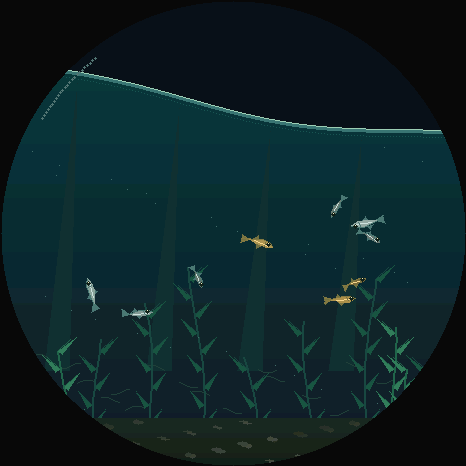
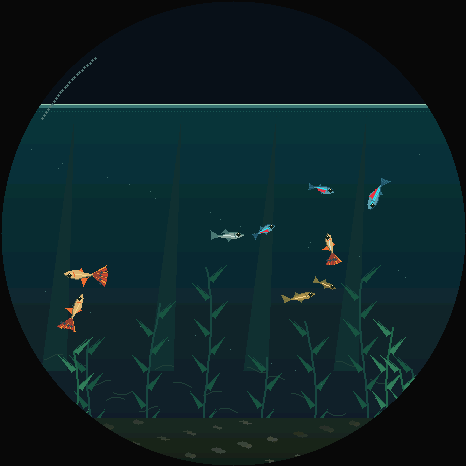
Add neon tetras and guppies with distinct looks and swimming

diff --git a/src/World.h b/src/World.h
@@ -6,7 +6,16 @@
 namespace aquarium {
 constexpr float kPi = 3.14159265359f;
 inline float clamp(float v, float lo, float hi) { return std::max(lo, std::min(v, hi)); }
-struct Fish { float x, y, vx, vy, heading, phase, depth, urge; float bite=0; };
+enum class Species : uint8_t { Medaka, NeonTetra, Guppy };
+struct SwimStyle { float cruise, turn, cadence, schooling, restDepth; };
+inline SwimStyle swimStyle(Species s) {
+  switch(s) {
+    case Species::NeonTetra: return {49,3.2f,1.25f,1.8f,245};
+    case Species::Guppy: return {34,1.9f,.72f,.65f,185};
+    default: return {42,2.5f,1,1,215};
+  }
+}
+struct Fish { float x, y, vx, vy, heading, phase, depth, urge; float bite=0; Species species=Species::Medaka; };
 struct Food { float x=0, y=0, life=0; bool wet=false; };
 class World {
 public:
@@ -18,6 +27,7 @@ public:
   Fish fish[COUNT];
   Food food[FOOD_MAX];
   unsigned eaten=0;
+  unsigned eatenBySpecies[3]{};
   float feedCooldown=0;
   int foodCount() const { int n=0; for(const auto &p:food) if(p.life>0) ++n; return n; }
   void feed(float x) {
@@ -32,7 +42,9 @@ public:
   uint32_t seed = 0x4d454441;
   float random() { seed ^= seed << 13; seed ^= seed >> 17; seed ^= seed << 5; return (seed & 0xffffff) / 16777216.f; }
   World() {
+    int index=0;
     for (auto &f : fish) {
+      f.species=static_cast<Species>(index++%3);
       f.x = 90 + random()*280; f.y = 155 + random()*210;
       f.heading = random()*2*kPi; f.vx = std::cos(f.heading)*20; f.vy = std::sin(f.heading)*8;
       f.phase = random()*2*kPi; f.depth = .6f + random()*.4f; f.urge = random();
@@ -102,13 +114,13 @@ public:
     }
     Fish old[COUNT]; std::copy(fish,fish+COUNT,old);
     for(int i=0;i<COUNT;++i) {
-      auto &f=fish[i]; float fx=0,fy=0, mx=0,my=0,avx=0,avy=0; int neighbors=0;
+      auto &f=fish[i]; const auto style=swimStyle(f.species); float fx=0,fy=0, mx=0,my=0,avx=0,avy=0; int neighbors=0;
       for(int j=0;j<COUNT;++j) if(i!=j) {
         float dx=old[j].x-f.x,dy=old[j].y-f.y,d2=dx*dx+dy*dy;
-        if(d2<150*150) { mx+=old[j].x; my+=old[j].y; avx+=old[j].vx; avy+=old[j].vy; ++neighbors; }
+        if(d2<150*150 && old[j].species==f.species) { mx+=old[j].x; my+=old[j].y; avx+=old[j].vx; avy+=old[j].vy; ++neighbors; }
         if(d2<42*42) { fx-=dx*150/(d2+16); fy-=dy*150/(d2+16); }
       }
-      if(neighbors) { fx+=(mx/neighbors-f.x)*.08f+(avx/neighbors-f.vx)*.16f; fy+=(my/neighbors-f.y)*.07f+(avy/neighbors-f.vy)*.12f; }
+      if(neighbors) { fx+=((mx/neighbors-f.x)*.08f+(avx/neighbors-f.vx)*.16f)*style.schooling; fy+=((my/neighbors-f.y)*.07f+(avy/neighbors-f.vy)*.12f)*style.schooling; }
       f.bite=std::max(0.f,f.bite-dt);
       int targetFood=-1; float nearest=1e9f;
       for(int j=0;j<FOOD_MAX;++j) if(food[j].life>0 && food[j].wet) {
@@ -118,34 +130,35 @@ public:
       bool feeding=targetFood>=0;
       if(feeding) {
         auto &p=food[targetFood]; float d=std::sqrt(nearest);
-        if(d<17 && f.bite<=0) { p.life=0; ++eaten; f.bite=.65f; }
+        if(d<17 && f.bite<=0) { p.life=0; ++eaten; ++eatenBySpecies[static_cast<int>(f.species)]; f.bite=.65f; }
         else {
           float desired=std::min(68.f,d*2.4f);
           fx+=((p.x-f.x)/std::max(1.f,d)*desired-f.vx)*2.8f;
           fy+=((p.y-f.y)/std::max(1.f,d)*desired-f.vy)*2.8f;
         }
       }
+      if(!feeding) fy+=(style.restDepth-f.y)*.035f;
       float radial=std::sqrt((f.x-233)*(f.x-233)+(f.y-233)*(f.y-233));
       if(radial>166) { fx-=(f.x-233)*(radial-166)*.025f; fy-=(f.y-233)*(radial-166)*.025f; }
       float top=surface(f.x)+(feeding?0:32);
       if(f.y<top+25) fy+=(top+25-f.y)*1.8f;
       if(f.y>382) fy-=(f.y-382)*1.8f;
       f.urge-=dt;
-      if(f.urge<0) f.urge=.7f+random()*1.9f;
+      if(f.urge<0) f.urge=(.7f+random()*1.9f)/style.cadence;
       float burst = f.urge<.27f ? 1.f : .12f;
-      fx+=std::cos(f.heading)*(12+alarm*60)*burst+std::sin(time*.63f+i*2)*8;
+      fx+=std::cos(f.heading)*(12*style.cadence+alarm*60)*burst+std::sin(time*.63f+i*2)*8;
       fy+=std::sin(time*.81f+i*3)*5+alarm*14;
       f.vx+=(fx-f.vx*.20f+current*.28f)*dt; f.vy+=(fy-f.vy*.38f)*dt;
-      float speed=std::sqrt(f.vx*f.vx+f.vy*f.vy), limit=(feeding?72:42)+alarm*65;
+      float speed=std::sqrt(f.vx*f.vx+f.vy*f.vy), limit=(feeding?72:style.cruise)+alarm*65;
       if(speed>limit) { f.vx*=limit/speed; f.vy*=limit/speed; }
-      if(speed>2) { float delta=std::atan2(f.vy,f.vx)-f.heading; delta=std::atan2(std::sin(delta),std::cos(delta)); f.heading+=clamp(delta,-dt*2.5f,dt*2.5f); }
+      if(speed>2) { float delta=std::atan2(f.vy,f.vx)-f.heading; delta=std::atan2(std::sin(delta),std::cos(delta)); f.heading+=clamp(delta,-dt*style.turn,dt*style.turn); }
       f.x+=f.vx*dt; f.y+=f.vy*dt;
       float dx=f.x-233,dy=f.y-233,d=std::sqrt(dx*dx+dy*dy);
       if(d>199) { f.x=233+dx*199/d; f.y=233+dy*199/d; }
       f.x=clamp(f.x,45,421);
       float edge=std::sqrt(199*199-(f.x-233)*(f.x-233));
       f.y=clamp(f.y,std::max(surface(f.x)+20,233-edge),std::min(413.f,233+edge));
-      f.phase+=dt*(6+speed*.18f+burst*5);
+      f.phase+=dt*(6+speed*.18f+burst*5)*style.cadence;
     }
   }
 };

diff --git a/src/Scene.h b/src/Scene.h
@@ -19,35 +19,57 @@ void plant(float root,int height,int index,bool front) {
 }
 
 void drawFish(const Fish &f,int index) {
-  float co=std::cos(f.heading),si=std::sin(f.heading),sc=f.depth;
+  bool neon=f.species==Species::NeonTetra, guppy=f.species==Species::Guppy;
+  float co=std::cos(f.heading),si=std::sin(f.heading),sc=f.depth*(guppy?1.1f:1.f);
   float tail=std::sin(f.phase)*3.7f, wag=std::sin(f.phase-.8f)*1.5f;
   auto point=[&](float x,float y) { return std::pair<int,int>(f.x+(x*co-y*si)*sc,f.y+(x*si+y*co)*sc); };
   auto tri=[&](float ax,float ay,float bx,float by,float cx,float cy,uint16_t c) {
     auto a=point(ax,ay),b=point(bx,by),d=point(cx,cy); frame.fillTriangle(a.first,a.second,b.first,b.second,d.first,d.second,c);
   };
-  bool gold=index%3==0;
+  bool gold=index%2==0;
   uint16_t fin=gold?color(119,115,66):color(72,119,117);
   uint16_t body=gold?color(206*sc,174*sc,94*sc):color(162*sc,192*sc,180*sc);
   uint16_t back=gold?color(130,120,64):color(76,121,119);
-  tri(-14,wag,-24,tail-5,-23,tail+5,fin);
-  for(int ray=-4;ray<=4;ray+=2) {
+  if(neon) { body=color(90,156,174); back=color(34,85,108); fin=color(54,113,130); }
+  if(guppy) { body=color(216,181,112); back=color(106,104,73); fin=color(233,110,54); }
+  if(guppy) {
+    // A broad, flexible fan tail with rays and spots distinguishes the guppy.
+    for(int ray=0;ray<8;++ray) {
+      float y=-11+ray*2.75f, ny=y+2.75f;
+      float tip=-29+std::sin(f.phase+ray*.5f)*1.6f;
+      tri(-13,wag,tip,tail+y,tip,tail+ny,ray%2?color(240,146,57):color(207,73,55));
+      auto a=point(-14,wag),b=point(tip,tail+y);
+      frame.drawLine(a.first,a.second,b.first,b.second,color(150,67,53));
+      if(ray%2==0) { auto spot=point(-24,tail+y*.7f); frame.fillCircle(spot.first,spot.second,1,color(51,75,81)); }
+    }
+  } else tri(-14,wag,-24,tail-5,-23,tail+5,fin);
+  for(int ray=-4;!guppy && ray<=4;ray+=2) {
     auto a=point(-14,wag),b=point(-23,tail+ray);
     frame.drawLine(a.first,a.second,b.first,b.second,back);
   }
-  tri(-3,-3,-7,-7,-11,-2,fin);
+  tri(-3,-3,-7,guppy?-12:-7,-11,-2,fin);
   tri(3,2,-3,7+std::sin(f.phase)*1.2f,-7,2,fin);
   const float xs[]={-15,-11,-6,0,6,10,14};
   const float widths[]={.4f,1.2f,2.6f,3.8f,3.5f,2.5f,.5f};
+  float bodyHeight=neon?1.45f:guppy?1.15f:1.f;
   for(int j=0;j<6;++j) {
     float x=xs[j],nx=xs[j+1];
     float bend=wag*std::max(0.f,-x)/15,nb=wag*std::max(0.f,-nx)/15;
-    tri(x,bend-widths[j],nx,nb-widths[j+1],nx,nb+widths[j+1],body);
-    tri(x,bend-widths[j],nx,nb+widths[j+1],x,bend+widths[j],body);
-    auto a=point(x,bend-widths[j]),b=point(nx,nb-widths[j+1]);
+    tri(x,bend-widths[j]*bodyHeight,nx,nb-widths[j+1]*bodyHeight,nx,nb+widths[j+1]*bodyHeight,body);
+    tri(x,bend-widths[j]*bodyHeight,nx,nb+widths[j+1]*bodyHeight,x,bend+widths[j]*bodyHeight,body);
+    auto a=point(x,bend-widths[j]*bodyHeight),b=point(nx,nb-widths[j+1]*bodyHeight);
     frame.drawLine(a.first,a.second,b.first,b.second,back);
   }
+  if(neon) {
+    tri(-11,1,2,1,1,5,color(235,49,67));
+    tri(-11,1,1,5,-9,3,color(235,49,67));
+    for(int line=-1;line<=0;++line) {
+      auto a=point(-11,line),b=point(10,line);
+      frame.drawLine(a.first,a.second,b.first,b.second,color(40,231,246));
+    }
+  }
   auto a=point(-9,0),b=point(9,1);
-  frame.drawLine(a.first,a.second,b.first,b.second,gold?color(244,213,140):color(206,227,216));
+  if(!neon) frame.drawLine(a.first,a.second,b.first,b.second,gold?color(244,213,140):color(206,227,216));
   auto eye=point(9,-1); frame.fillCircle(eye.first,eye.second,2,color(16,32,30));
   frame.drawPixel(eye.first,eye.second-1,color(242,240,195));
   auto gill=point(5,2),gill2=point(4,-2); frame.drawLine(gill.first,gill.second,gill2.first,gill2.second,fin);

diff --git a/test/physics.cpp b/test/physics.cpp
@@ -4,6 +4,8 @@
 using namespace aquarium;
 int main() {
   World w;
+  int population[3]{};for(auto &f:w.fish)++population[static_cast<int>(f.species)];
+  for(int n:population)assert(n==3);
   constexpr float dt=1.f/120;
   // Ten minutes: alternating violent shaking and rest, plus repeated taps.
   for(int n=0;n<72000;++n) {
@@ -45,6 +47,14 @@ int main() {
     assert(fed.eaten>=4); assert(fed.foodCount()<=2);
     for(int n=0;n<1800;++n) fed.step(dt);
     assert(fed.foodCount()==0);
+  }
+  for(auto species : {Species::Medaka,Species::NeonTetra,Species::Guppy}) {
+    World single;
+    for(auto &f:single.fish) f.species=species;
+    single.feed(233);
+    for(int n=0;n<1800;++n) { single.sense(0,1,0,dt);single.step(dt); }
+    assert(single.eatenBySpecies[static_cast<int>(species)]>=4);
+    std::printf("Species %d: %u pellets eaten\n",int(species),single.eaten);
   }
   World expiry; expiry.feed(155);
   for(auto &p:expiry.food) if(p.life>0) {p.life=.001f;p.wet=false;}

diff --git a/README.md b/README.md
@@ -2,7 +2,7 @@
 
 # Medaka — 手のひらの水槽
 
-M5Stack StopWatch C152を、9匹のメダカが泳ぐ小さな水槽にする観賞用アプリです。加速度と3軸ジャイロを使い、本体を揺らす・ひねる動きに水面と水草が反応します。
+M5Stack StopWatch C152を、メダカ・ネオンテトラ・グッピーが各3匹、合計9匹泳ぐ小さな水槽にする観賞用アプリです。加速度と3軸ジャイロを使い、本体を揺らす・ひねる動きに水面と水草が反応します。
 
 ![水槽アプリのプレビュー](docs/preview.png)
 
@@ -22,6 +22,16 @@ M5Stack StopWatch C152を、9匹のメダカが泳ぐ小さな水槽にする観
 - なびく水草、水深による色、控えめな光の表現。
 - 観賞中は時計やメニューを表示せず、音・振動も使いません。
 
+## 登場する魚
+
+| 魚 | 見た目とアプリ内の泳ぎ |
+| --- | --- |
+| メダカ × 3 | 細い銀色・金色の体。加速と滑走を繰り返す |
+| ネオンテトラ × 3 | 青いラインと赤い体色。同種でまとまりやすく、軽快に泳ぐ |
+| グッピー × 3 | 模様入りの大きなオレンジ色の尾びれ。ゆっくり振って泳ぐ |
+
+3種類ともボタンで投入したエサに集まります。魚の特徴を表現した観賞用の演出です。
+
 ## 操作
 
 | 操作 | 動作 |
@@ -37,9 +47,9 @@ M5Stack StopWatch C152を、9匹のメダカが泳ぐ小さな水槽にする観
 
 ## エサやり
 
-エサは水面からゆっくり沈み、メダカが近くの粒に集まって食べます。食べ終わると通常の遊泳に戻ります。1回6粒、同時に最大24粒まで。投入間隔は最低0.35秒で、食べ残しは24秒で消えます。長押しで明るさを変えた場合はエサを投入しません。
+エサは水面からゆっくり沈み、3種類の魚が近くの粒に集まって食べます。食べ終わると通常の遊泳に戻ります。1回6粒、同時に最大24粒まで。投入間隔は最低0.35秒で、食べ残しは24秒で消えます。長押しで明るさを変えた場合はエサを投入しません。
 
-![メダカがエサに集まるプレビュー](docs/feeding.gif)
+![3種類の魚がエサに集まるプレビュー](docs/feeding.gif)
 
 *実機と共通コードによるシミュレーションです。実機の録画ではありません。*
 
@@ -70,6 +80,7 @@ c++ -std=c++17 -O2 test/preview.cpp -o /tmp/medaka-preview
 
 確認済み:
 
+- 各魚種だけの水槽でも6粒すべてを15秒以内に消費。3種類混泳での10分相当の耐久テストも通過。
 - 左右の投入テストで6粒すべてを15秒以内に消費。連打制限・粒数上限・食べ残しの消滅も確認。
 
 - C152向けのビルド、USB書き込み、転送データのハッシュ照合。

diff --git a/README.en.md b/README.en.md
@@ -2,7 +2,7 @@
 
 # Medaka — A palm-sized aquarium
 
-A quiet aquarium with nine medaka for M5Stack StopWatch C152. Accelerometer and three-axis gyroscope input make the water and plants respond to shaking and twisting the device.
+A quiet aquarium with three medaka, three neon tetras and three guppies for M5Stack StopWatch C152. Accelerometer and three-axis gyroscope input make the water and plants respond to shaking and twisting the device.
 
 ![Aquarium preview](docs/preview.png)
 
@@ -22,6 +22,16 @@ A quiet aquarium with nine medaka for M5Stack StopWatch C152. Accelerometer and 
 - Swaying plants, depth shading and subtle lighting.
 - No clock or menu overlay during viewing, and no sound or vibration.
 
+## Fish
+
+| Species | Appearance and in-app motion |
+| --- | --- |
+| Medaka × 3 | Slender silver or gold bodies with burst-and-glide swimming |
+| Neon tetra × 3 | Bright blue stripes and red accents; quicker movement and stronger same-species schooling |
+| Guppy × 3 | Broad patterned orange fan tails with slower tail beats |
+
+All species respond to food. These are stylized behaviors for the viewing experience.
+
 ## Controls
 
 | Action | Response |
@@ -37,9 +47,9 @@ Settings are not persisted: restarting returns to normal viewing. If IMU initial
 
 ## Feeding
 
-Pellets fall into the water and slowly sink. Medaka gather around nearby pellets, eat them, then return to normal swimming. Each click adds six pellets, with a maximum of 24 active pellets and a minimum 0.35-second interval. Uneaten pellets disappear after 24 seconds. Holding yellow A changes brightness without adding food.
+Pellets fall into the water and slowly sink. All three species gather around nearby pellets, eat them, then return to normal swimming. Each click adds six pellets, with a maximum of 24 active pellets and a minimum 0.35-second interval. Uneaten pellets disappear after 24 seconds. Holding yellow A changes brightness without adding food.
 
-![Medaka gathering around food](docs/feeding.gif)
+![Three species gathering around food](docs/feeding.gif)
 
 *Simulation using shared firmware code, not a recording of the device.*
 
@@ -70,6 +80,7 @@ Preview frames are written to `/tmp/medaka-frame-000.ppm` and subsequent numbere
 
 Verified:
 
+- Each species in isolation consumes all six pellets within 15 seconds; the mixed population passes the ten-minute stress simulation.
 - Left and right feeding tests consume all six pellets within 15 seconds; rate limits, pellet capacity and expiry are checked.
 
 - Target build, USB flashing and all transferred hashes.
